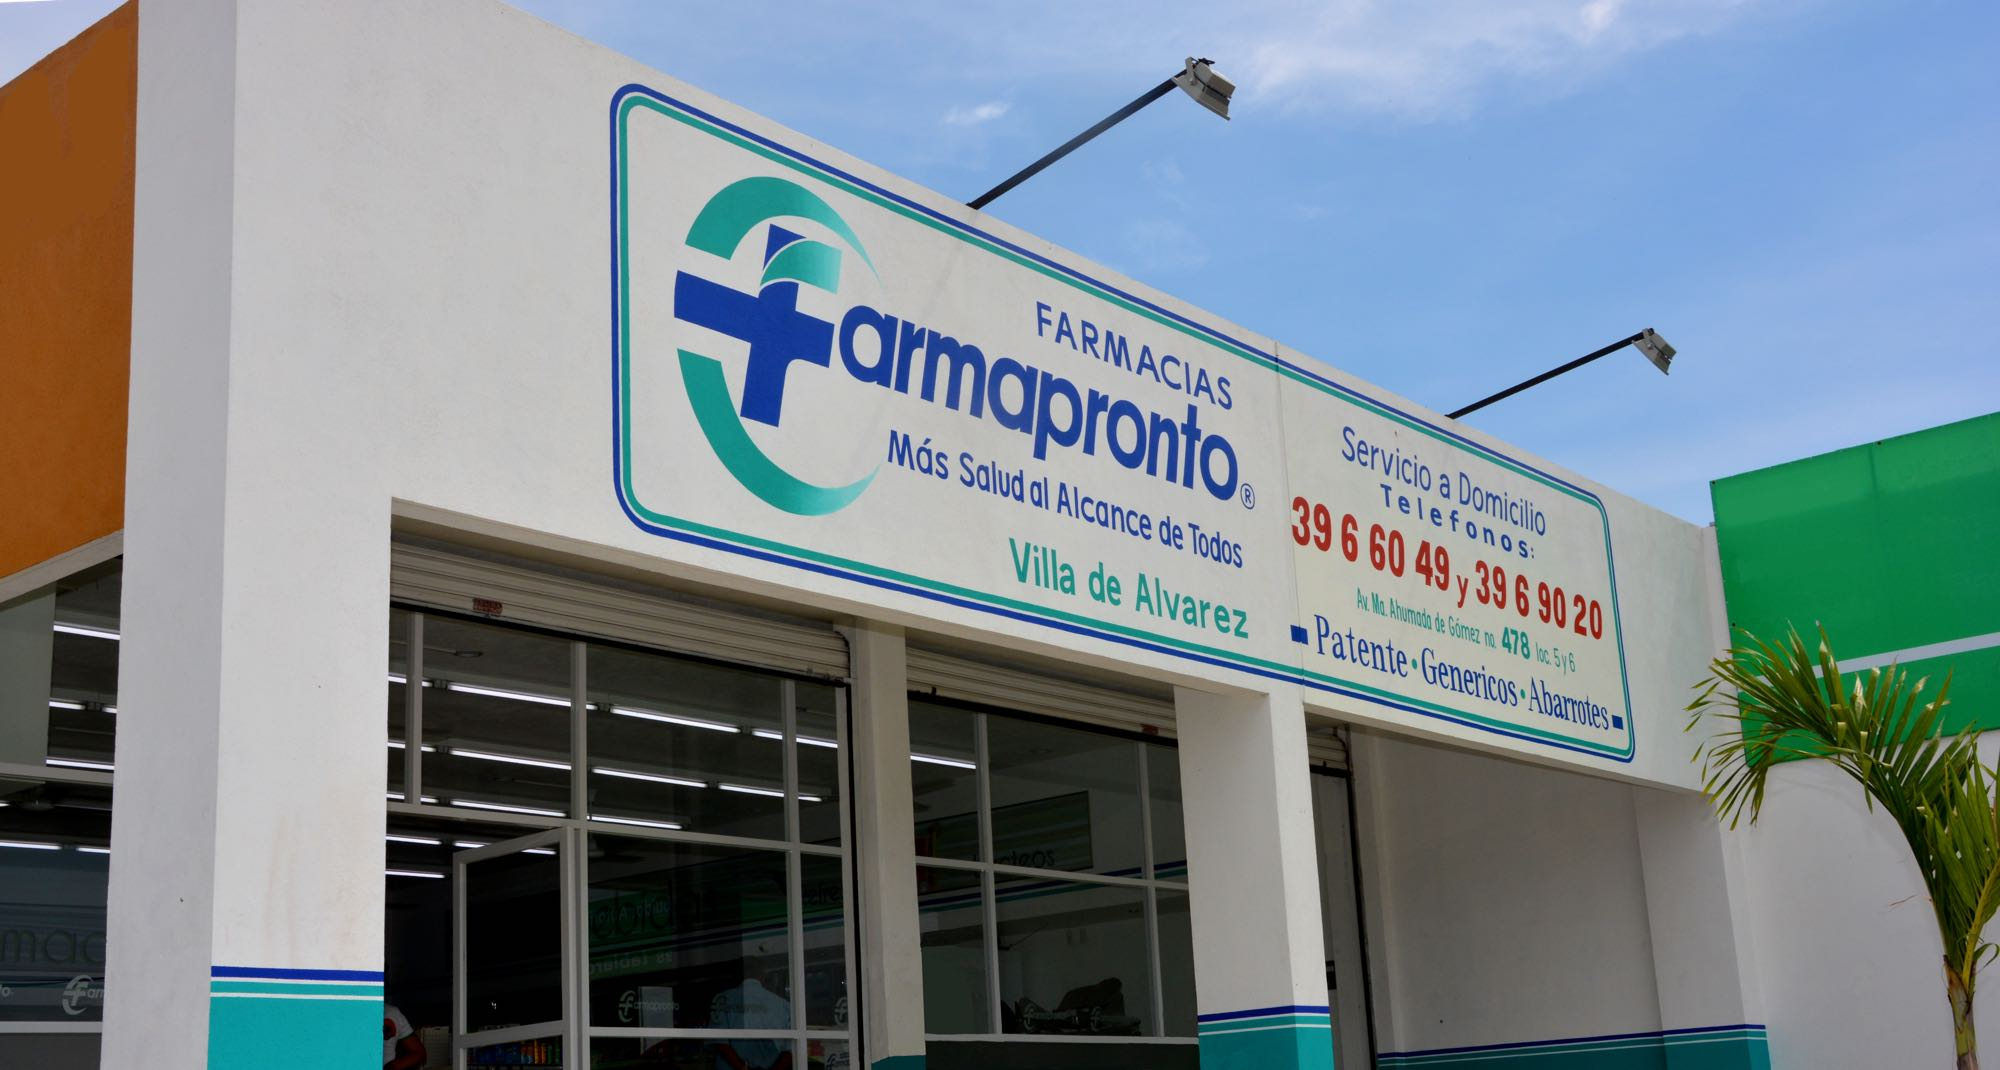
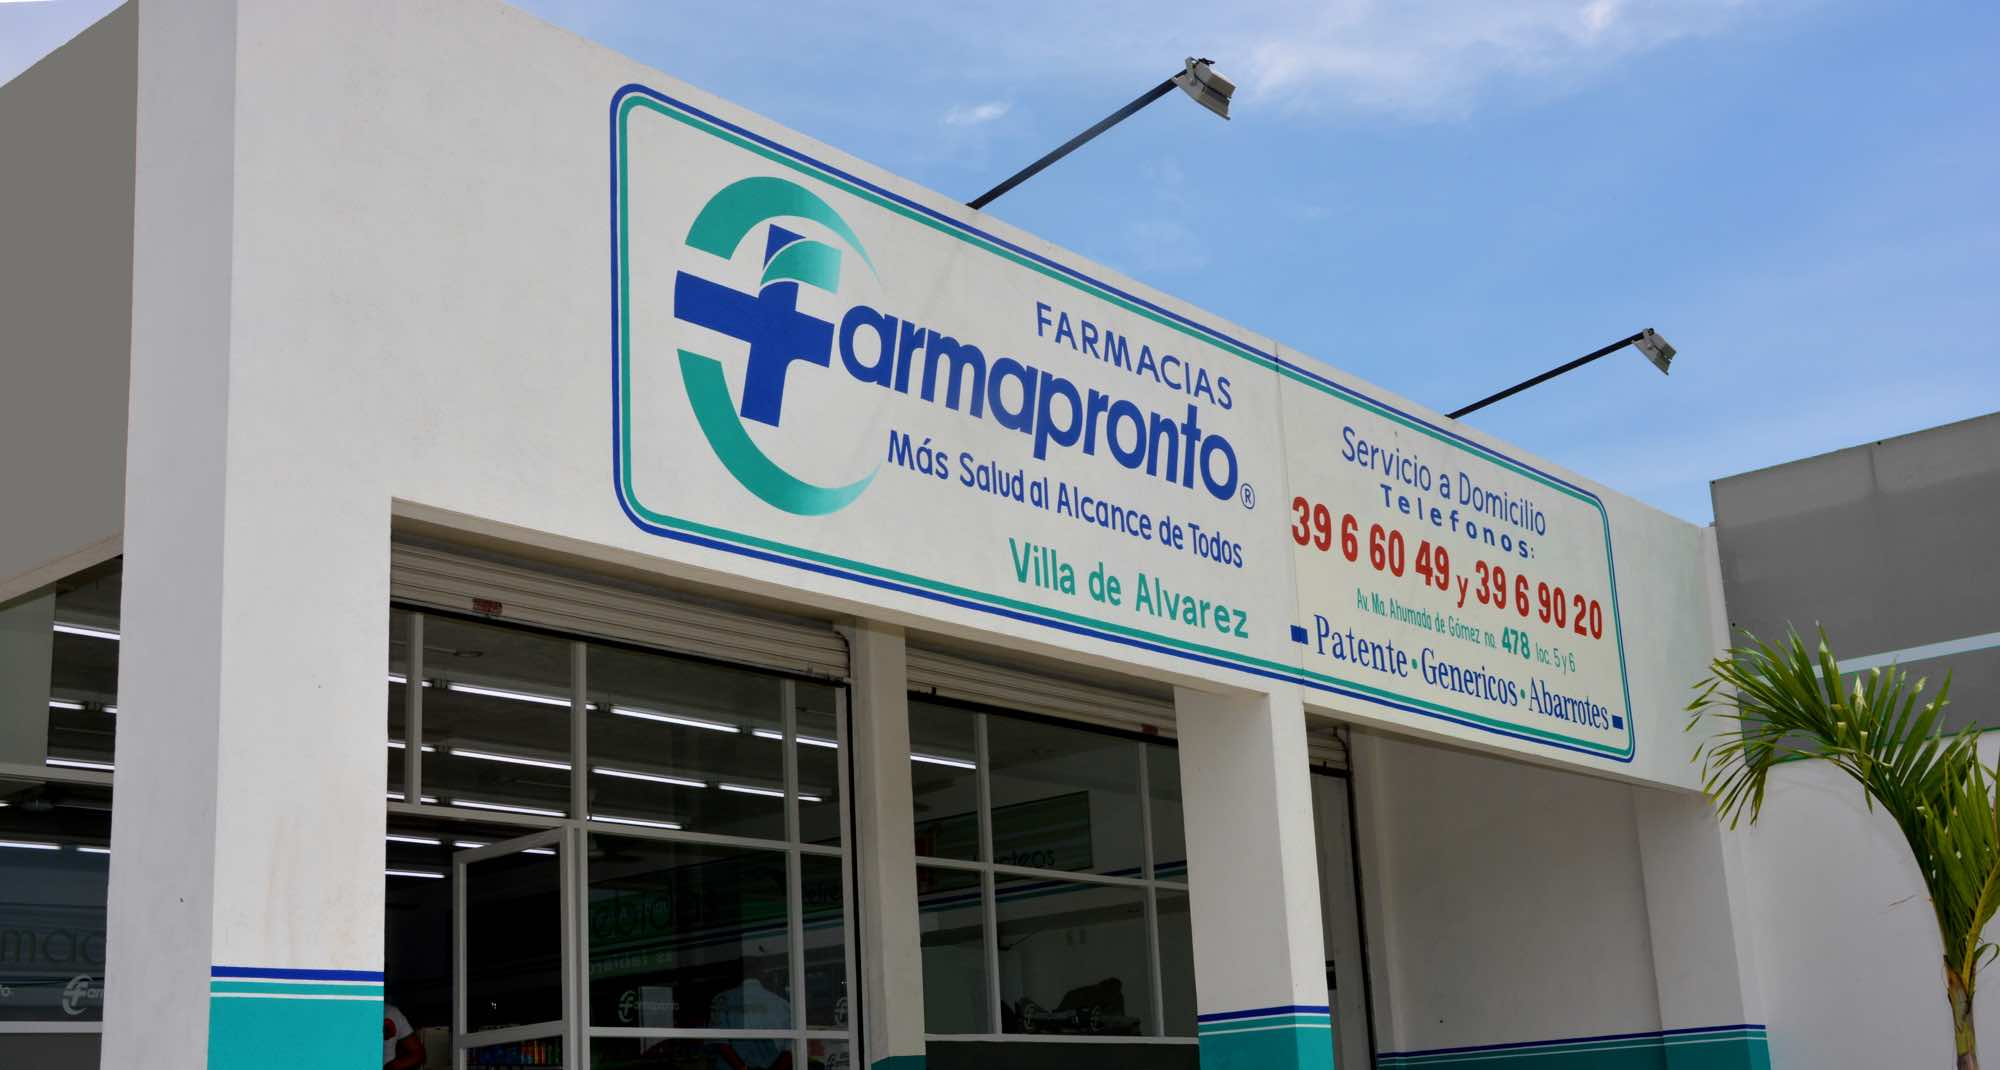
improving the background image

diff --git a/_includes/footer.html b/_includes/footer.html
@@ -11,43 +11,6 @@
           <li><a href="mailto:{{ site.email }}">{{ site.email }}</a></li>
         </ul>
       </div>
-
-      <div class="footer-col  footer-col-2">
-        <ul class="social-media-list">
-          {% if site.github_username %}
-          <li>
-            <a href="https://github.com/{{ site.github_username }}">
-              <span class="icon  icon--github">
-                <svg viewBox="0 0 16 16">
-                  <path fill="#828282" d="M7.999,0.431c-4.285,0-7.76,3.474-7.76,7.761 c0,3.428,2.223,6.337,5.307,7.363c0.388,0.071,0.53-0.168,0.53-0.374c0-0.184-0.007-0.672-0.01-1.32 c-2.159,0.469-2.614-1.04-2.614-1.04c-0.353-0.896-0.862-1.135-0.862-1.135c-0.705-0.481,0.053-0.472,0.053-0.472 c0.779,0.055,1.189,0.8,1.189,0.8c0.692,1.186,1.816,0.843,2.258,0.645c0.071-0.502,0.271-0.843,0.493-1.037 C4.86,11.425,3.049,10.76,3.049,7.786c0-0.847,0.302-1.54,0.799-2.082C3.768,5.507,3.501,4.718,3.924,3.65 c0,0,0.652-0.209,2.134,0.796C6.677,4.273,7.34,4.187,8,4.184c0.659,0.003,1.323,0.089,1.943,0.261 c1.482-1.004,2.132-0.796,2.132-0.796c0.423,1.068,0.157,1.857,0.077,2.054c0.497,0.542,0.798,1.235,0.798,2.082 c0,2.981-1.814,3.637-3.543,3.829c0.279,0.24,0.527,0.713,0.527,1.437c0,1.037-0.01,1.874-0.01,2.129 c0,0.208,0.14,0.449,0.534,0.373c3.081-1.028,5.302-3.935,5.302-7.362C15.76,3.906,12.285,0.431,7.999,0.431z"/>
-                </svg>
-              </span>
-
-              <span class="username">{{ site.github_username }}</span>
-            </a>
-          </li>
-          {% endif %}
-
-          {% if site.twitter_username %}
-          <li>
-            <a href="https://twitter.com/{{ site.twitter_username }}">
-              <span class="icon  icon--twitter">
-                <svg viewBox="0 0 16 16">
-                  <path fill="#828282" d="M15.969,3.058c-0.586,0.26-1.217,0.436-1.878,0.515c0.675-0.405,1.194-1.045,1.438-1.809
-                  c-0.632,0.375-1.332,0.647-2.076,0.793c-0.596-0.636-1.446-1.033-2.387-1.033c-1.806,0-3.27,1.464-3.27,3.27 c0,0.256,0.029,0.506,0.085,0.745C5.163,5.404,2.753,4.102,1.14,2.124C0.859,2.607,0.698,3.168,0.698,3.767 c0,1.134,0.577,2.135,1.455,2.722C1.616,6.472,1.112,6.325,0.671,6.08c0,0.014,0,0.027,0,0.041c0,1.584,1.127,2.906,2.623,3.206 C3.02,9.402,2.731,9.442,2.433,9.442c-0.211,0-0.416-0.021-0.615-0.059c0.416,1.299,1.624,2.245,3.055,2.271 c-1.119,0.877-2.529,1.4-4.061,1.4c-0.264,0-0.524-0.015-0.78-0.046c1.447,0.928,3.166,1.469,5.013,1.469 c6.015,0,9.304-4.983,9.304-9.304c0-0.142-0.003-0.283-0.009-0.423C14.976,4.29,15.531,3.714,15.969,3.058z"/>
-                </svg>
-              </span>
-
-              <span class="username">{{ site.twitter_username }}</span>
-            </a>
-          </li>
-          {% endif %}
-        </ul>
-      </div>
-
-      <div class="footer-col  footer-col-3">
-        <p class="text">{{ site.description }}</p>
-      </div>
     </div>
 
   </div>

diff --git a/css/main.scss b/css/main.scss
@@ -49,13 +49,13 @@ $on-laptop:        800px;
         "syntax-highlighting"
 ;
 
-header {position:relative; height:650px;
-	.mast {position:fixed; top:0; left:0; z-index:1; height:650px; overflow:hidden;
+header {position:relative;
+	.mast {position:absolute; top:0; left:0; z-index:1;
 		img {width:100%}
 	}
 	.site-title, nav.site-nav, .welcome {position:absolute; z-index:2}
-	.welcome {width:300px; text-align:center; top:100px; left:200px;
-		div:nth-of-type(1) {font-weight:bold; font-size:110%; margin-bottom:40px}
+	.welcome {width:300px; text-align:center; top:160px; right:200px;
+		div:nth-of-type(1) {font-weight:bold; font-size:110%; margin-bottom:20px}
 	}
 }
 

diff --git a/servicios/index.md b/servicios/index.md
@@ -1,0 +1,53 @@
+---
+layout: default
+title: Servicios
+---
+
+<div class="home">
+
+Servicios
+=========
+
+Servicio a domicilio
+--------------------
+
+Servicio a domicilio sin costo alguno
+* Entrega a domicilio en corto tiempo
+* Entrega de medicina, abarrotes, perfumería.
+* Entrega a domicilio de cerveza y cigarros
+
+Medicina Patente
+-----------------
+Medicamento de patente a precios increibles. 
+* 20% de descuento garantizado
+* Disponibilidad al 100% 
+* Abono a monedero y tarjetas de beneficios
+
+Medicamento Marca Propia
+-------------------------
+Contamos con un amplio catálogo de medicamento de marca propia o genérico.
+* Medicamentos fabricados con estandares de mas alta calidad
+* Pagas lo justo, precios muy bajos
+* Abona hasta 10% a monedero Farmapronto
+* Antibióticos, desinflamatorios, antitusivos, cardiología y más...
+* [Busca tu medicamento](http://grupofarmapronto.com/marca_2014.htm)
+
+
+Tarjetas Beneficios
+-------------------
+Debido a la gran demanda de productos de patente, Farmapronto y los laboratorios, creamos tarjetas para apoyar la economía de usted nuestro cliente.
+* **AZTRA ZENECA:** compra tres del mismo producto y el cuarto es gratis con tu tarjeta.
+* **SANOFI:** Compra tres cajas del mismo medicamento y el cuarto es gratis con tu tarjeta "SANOFI contigo".
+* **ASSOPHARMA:** Compra tres del mismo medicamento y el cuarto es gratis, con tu tarjeta de beneficios.
+* **Espera mas beneficios, muy pronto: PFIZER CONTIGO, PISA Y MAS**
+
+
+Pago de Servicios
+-----------------
+En Farmapronto Villa De Álvarez, contamos con el servicio de pago de servicios y recargas electrónicas, enlistamos algunos de los pagos que puede realizar, abonandose de manera instantanea.
+* **RECARGA TELEFÓNICA:** Abono de tiempo aire a compañías: Telcel, Iusacell, Movistar, Unefon y Nextel.
+* **PAGO DE SERVICIOS:** TELMEX, CABLEMAS, TELECABLE, CFE, INFONAVIT, IAVE, TELEVIA, UKASH, ADT, ILUSION, SKY, GENERAL ELECTRIC, HOMEX, OMNILIFE, ABCEKOFON, AT&T, CALIENTE, GAS NATURAL, GOBIERNO DEL ESTADO Y MUCHO MAS.
+* **CINEMEX**:Compra boletos para CINEMEX, de la forma mas sencilla sin hacer filas, solo recibe un codigo a tu celular y canjealo en taquillas.
+* **NO HAGAS FILAS, SOLO ACUDE A FARMAPRONTO VILLA DE ALVAREZ Y HAZ TUS PAGOS SIN DEMORAS, "ASÍ DE FÁCIL"**
+
+</div>

diff --git a/nosotros/index.md b/nosotros/index.md
@@ -1,0 +1,26 @@
+---
+layout: default
+title: Nosotros
+---
+
+<div class="home">
+
+<h2 id="nosotros">Nosotros</h2>
+<p>Farmapronto Villa De Álvarez, se fundó el 26 de junio del 2013, el la Ciudad  Villa De Álvarez, Colima. Por el empresario Martín Cárdenas Ceja, oriundo de Ciudad Guzmán, Jalisco. Inversionista y comerciante con firmes bases de trabajo honesto, gracias a la enseñanza paterna y materna. En su noble tarea de ayudar a la gente, asi como de tratar a sus clientes con eses respeto que cada uno merece. Decidió crear una farmacia, que tuviera todo lo necesario para satisfacer las necesidades de cada cliente, con precios bajos, atención cálida y servicio excelente. </p>
+<h2 id="filosofia">Filosofia</h2>
+<p>En Farmapronto Villa De Álvarez nos preocupamos por el cuidado de su cuerpo y salud.
+Es parte de nuestra familia y lo atenderemos con respeto, placer y con precios justos.</p>
+<h2 id="nuestros-valores-">Nuestros valores:</h2>
+<ul>
+<li>Honestidad.</li>
+<li>Trabajo.</li>
+<li>Disciplina.</li>
+<li>Compromiso.</li>
+</ul>
+<p>
+	La salud lo es todo y es esencial cuidarla.
+	Parte de la curación esta en la voluntad de sanar.
+	La libertad y la salud se asemejan, su verdadero valor se conoce cuando nos faltan.
+	Solo la alegria es garantia de salud y longevidad.
+</p>
+</div>

diff --git a/galeria/index.md b/galeria/index.md
@@ -1,0 +1,10 @@
+---
+layout: default
+title: Nosotros
+---
+
+<div class="home">
+
+Farmapronto Villa De Álvarez, se fundó el 26 de junio del 2013, el la Ciudad  Villa De Álvarez, Colima. Por el empresario Martín Cárdenas Ceja, oriundo de Ciudad Guzmán, Jalisco. Inversionista y comerciante con firmes bases de trabajo honesto, gracias a la enseñanza paterna y materna. En su noble tarea de ayudar a la gente, asi como de tratar a sus clientes con eses respeto que cada uno merece. Decidió crear una farmacia, que tuviera todo lo necesario para satisfacer las necesidades de cada cliente, con precios bajos, atención cálida y servicio excelente. 
+
+</div>

diff --git a/contacto/index.md b/contacto/index.md
@@ -1,0 +1,17 @@
+---
+layout: default
+title: Servicios
+---
+
+<div class="home">
+
+Contacto
+========
+
+Dirección:  Av. Maria Ahumada De Gomez No. 478 Local 5 y 6, Villa De Alvarez, Colima 
+Teléfono:  (312) 396-9020
+WhatsApp:  (314) 100-7745
+
+Email:  vdealvarez@grupofarmapronto.com
+
+</div>
